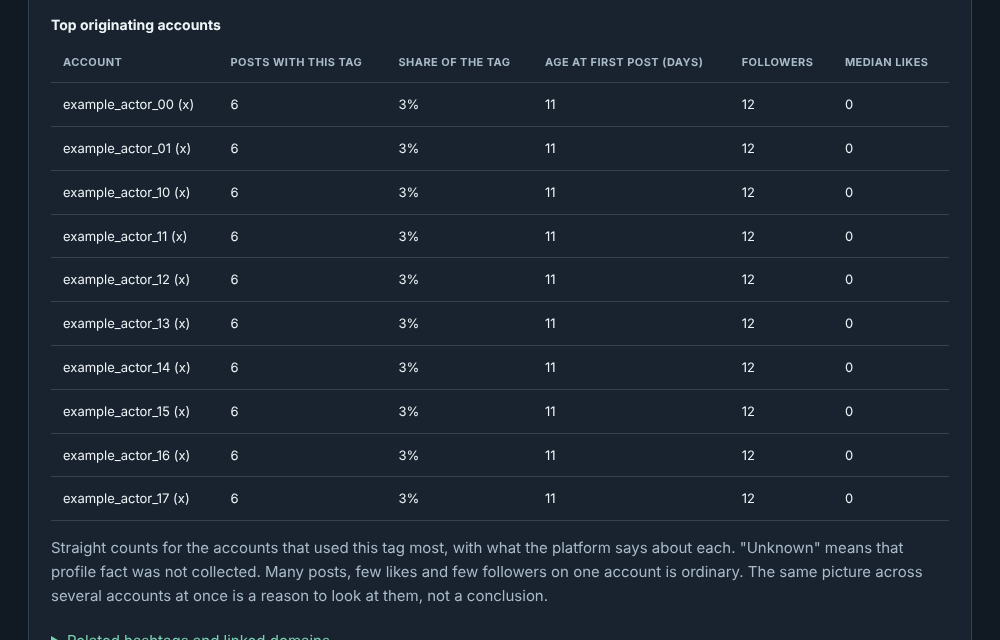
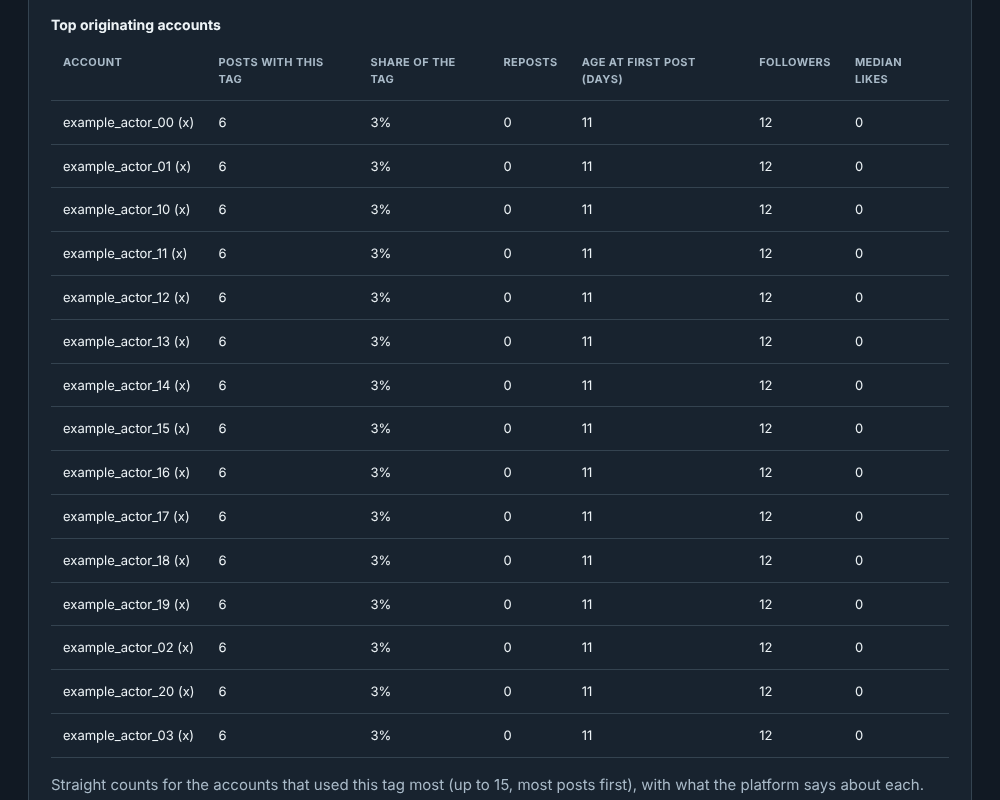
Release TopicStream 0.3.10: the per-tag account table at its old length
0.3.9 restored Top originating accounts shorter than it was. Compared
with a 0.2.5 report rendered on the same data:

- Top originating accounts lists up to 15 accounts (0.3.9 stopped at
  10) and has its Reposts column again. Same order: most posts with
  the tag first.
- Each tag card's heading carries the tag's totals again
  ("#tag · 158 posts from 17 accounts").
- Related hashtags shows Share and Lift again, with a line on what
  each is.

No change to collection, detection, pricing or any existing number.

Claude-Session: https://claude.ai/code/session_01MUSQSKf5PqKzUGwwCN55CZ

diff --git a/topicstream/report.py b/topicstream/report.py
@@ -11,7 +11,7 @@ from .sources import parse_time, iso
 from . import __version__ as VERSION
 
 CSS = '''
-:root{color-scheme:dark;--bg:#111923;--panel:#18232f;--line:#344350;--muted:#a9bac8;--ink:#edf3f6;--accent:#79d3b1}*{box-sizing:border-box}body{margin:0;background:var(--bg);color:var(--ink);font:15px/1.6 system-ui,sans-serif}main{max-width:1250px;margin:auto;padding:42px 28px}h1{font-size:34px;line-height:1.2;margin:14px 0}h2{font-size:23px;margin:36px 0 12px}h3{font-size:17px}h4{font-size:14px;margin:18px 0 6px}.tok{white-space:nowrap}a{color:var(--accent)}p{max-width:100ch}.muted{color:var(--muted)}.eyebrow{letter-spacing:.14em;text-transform:uppercase;font-size:12px;color:var(--accent)}.card{background:var(--panel);border:1px solid var(--line);padding:22px;border-radius:12px;margin:15px 0}.metrics{display:grid;grid-template-columns:repeat(4,1fr);gap:14px}.metrics strong{display:block;font-size:28px}.scroll{overflow:auto}table{border-collapse:collapse;width:100%;font-size:13px}th,td{padding:11px 12px;text-align:left;border-bottom:1px solid var(--line);vertical-align:top}th{color:var(--muted);font-size:11px;text-transform:uppercase;letter-spacing:.04em}td{overflow-wrap:anywhere}code{overflow-wrap:anywhere;color:var(--accent)}.notice{border-left:3px solid var(--accent);padding:12px 18px;background:#19312e}.bars{display:flex;align-items:end;gap:4px;height:150px}.bar{background:var(--accent);min-width:4px;max-width:72px;flex:1}.post{padding:15px 0;border-bottom:1px solid var(--line);scroll-margin-top:20px}summary{cursor:pointer;color:var(--accent)}.small{font-size:12px}nav{display:flex;gap:16px;flex-wrap:wrap}@media(max-width:650px){main{padding:20px 14px}.metrics{grid-template-columns:repeat(2,1fr)}h1{font-size:27px}}
+:root{color-scheme:dark;--bg:#111923;--panel:#18232f;--line:#344350;--muted:#a9bac8;--ink:#edf3f6;--accent:#79d3b1}*{box-sizing:border-box}body{margin:0;background:var(--bg);color:var(--ink);font:15px/1.6 system-ui,sans-serif}main{max-width:1250px;margin:auto;padding:42px 28px}h1{font-size:34px;line-height:1.2;margin:14px 0}h2{font-size:23px;margin:36px 0 12px}h3{font-size:17px}h4{font-size:14px;margin:18px 0 6px}.tok{white-space:nowrap}h3 .muted{font-weight:400;font-size:14px}a{color:var(--accent)}p{max-width:100ch}.muted{color:var(--muted)}.eyebrow{letter-spacing:.14em;text-transform:uppercase;font-size:12px;color:var(--accent)}.card{background:var(--panel);border:1px solid var(--line);padding:22px;border-radius:12px;margin:15px 0}.metrics{display:grid;grid-template-columns:repeat(4,1fr);gap:14px}.metrics strong{display:block;font-size:28px}.scroll{overflow:auto}table{border-collapse:collapse;width:100%;font-size:13px}th,td{padding:11px 12px;text-align:left;border-bottom:1px solid var(--line);vertical-align:top}th{color:var(--muted);font-size:11px;text-transform:uppercase;letter-spacing:.04em}td{overflow-wrap:anywhere}code{overflow-wrap:anywhere;color:var(--accent)}.notice{border-left:3px solid var(--accent);padding:12px 18px;background:#19312e}.bars{display:flex;align-items:end;gap:4px;height:150px}.bar{background:var(--accent);min-width:4px;max-width:72px;flex:1}.post{padding:15px 0;border-bottom:1px solid var(--line);scroll-margin-top:20px}summary{cursor:pointer;color:var(--accent)}.small{font-size:12px}nav{display:flex;gap:16px;flex-wrap:wrap}@media(max-width:650px){main{padding:20px 14px}.metrics{grid-template-columns:repeat(2,1fr)}h1{font-size:27px}}
 '''
 CSS += '''
 :root[data-theme="light"]{color-scheme:light;--bg:#f7f9fb;--panel:#fff;--line:#c6d0d8;--muted:#465865;--ink:#14222e;--accent:#14634e}
@@ -188,14 +188,15 @@ def render(store,cfg,now=None,result=None):
         last_day=(end-timedelta(seconds=1)).date()
         calendar_days=(last_day-start.date()).days+1
         series=A.daily_series(posts,tag,calendar_days,end=last_day); maximum=max([u for _,u,_ in series]+[1])
-        w(f'<section class="card"><h3>{esc(tag)}</h3><div class="bars" role="img" aria-label="Observed posts per UTC day">'+''.join(f'<div class="bar" style="height:{max(1,int(145*u/maximum))}px" title="{esc(d)}: {u} posts from {a} accounts"></div>' for d,u,a in series)+'</div>')
+        tagged=A._for_tag(posts,tag); tag_accounts=len({A.account_key(p) for p in tagged})
+        w(f'<section class="card"><h3>{esc(tag)} <span class="muted">· {len(tagged):,} post{"" if len(tagged)==1 else "s"} from {tag_accounts:,} account{"" if tag_accounts==1 else "s"}</span></h3><div class="bars" role="img" aria-label="Observed posts per UTC day">'+''.join(f'<div class="bar" style="height:{max(1,int(145*u/maximum))}px" title="{esc(d)}: {u} posts from {a} accounts"></div>' for d,u,a in series)+'</div>')
         w(_table(['UTC day','Observed posts','Originating accounts'],[(esc(d),u,a) for d,u,a in series]))
-        top_accounts=A.top_accounts(posts,tag,top=10,now=now)
+        top_accounts=A.top_accounts(posts,tag,top=15,now=now)
         if top_accounts:
             w('<h4>Top originating accounts</h4>')
-            w(_table(['Account','Posts with this tag','Share of the tag','Age at first post (days)','Followers','Median likes'],[(esc(r['account']+' ('+r['source']+')'),r['uses'],f'{r["share"]:.0%}',num(r['age_days']),num(r['followers']),med(r['median_likes'])) for r in top_accounts]))
-            w('<p class="muted">Straight counts for the accounts that used this tag most, with what the platform says about each. "Unknown" means that profile fact was not collected. Many posts, few likes and few followers on one account is ordinary. The same picture across several accounts at once is a reason to look at them, not a conclusion.</p>')
-        w('<details><summary>Related hashtags and linked domains</summary>'+_table(['Hashtag','Posts','Accounts'],[(esc(c['tag']),c['count'],c['accounts']) for c in A.cooccurrence(posts,tag)])+_table(['Domain','Posts','Accounts'],[(esc(c['domain']),c['posts'],c['accounts']) for c in A.top_domains(posts,tag)])+'</details>')
+            w(_table(['Account','Posts with this tag','Share of the tag','Reposts','Age at first post (days)','Followers','Median likes'],[('<span class="tok">'+esc(r['account']+' ('+r['source']+')')+'</span>',r['uses'],f'{r["share"]:.0%}',r['reposts'],num(r['age_days']),num(r['followers']),med(r['median_likes'])) for r in top_accounts]))
+            w('<p class="muted">Straight counts for the accounts that used this tag most (up to 15, most posts first), with what the platform says about each. "Reposts" is how many of an account\'s posts with the tag are reposts. "Unknown" means that profile fact was not collected. Many posts, few likes and few followers on one account is ordinary. The same picture across several accounts at once is a reason to look at them, not a conclusion.</p>')
+        w('<details><summary>Related hashtags and linked domains</summary>'+_table(['Hashtag','Posts','Share','Lift','Accounts'],[(esc(c['tag']),c['count'],f'{c["share"]:.0%}',f'{c["lift"]:.1f}',c['accounts']) for c in A.cooccurrence(posts,tag)])+'<p class="muted">Share is the fraction of this tag\'s posts that also carry the other tag. Lift is that share divided by how common the other tag is in everything stored; 1.0 means no relationship.</p>'+_table(['Domain','Posts','Accounts'],[(esc(c['domain']),c['posts'],c['accounts']) for c in A.top_domains(posts,tag)])+'</details>')
         if counts: w('<details><summary>X volume per hour from the counts API</summary>'+_table(['Hour UTC','API-reported matches'],[(esc(c['start_utc']),c['uses']) for c in counts if c['tag']==tag])+'</details>')
         w('</section>')
     bc=cfg.get('burst',{}); window=int(bc.get('window_minutes',10)); minimum=int(bc.get('minimum',3))

diff --git a/tests/test_topicstream.py b/tests/test_topicstream.py
@@ -117,7 +117,11 @@ class AnalysisTests(unittest.TestCase):
         token_row = re.search(r'<tr><td><span class="tok">utm_campaign=zz9</span></td><td>(\d+)</td>', html)
         self.assertTrue(token_row, 'the campaign token has a row of its own'); self.assertEqual(int(token_row.group(1)), 6)        # six accounts link site.example in the fixture
         self.assertNotIn('utm_source=twitter</span>', html)                                                                     # share-button boilerplate is not a token
-        self.assertIn('Top originating accounts', html); self.assertIn('<th>Followers</th><th>Median likes</th>', html)
+        self.assertIn('Top originating accounts', html); self.assertIn('<th>Posts with this tag</th><th>Share of the tag</th><th>Reposts</th><th>Age at first post (days)</th><th>Followers</th><th>Median likes</th>', html)
+        self.assertIn('<th>Hashtag</th><th>Posts</th><th>Share</th><th>Lift</th><th>Accounts</th>', html)                          # related hashtags keep their share and lift
+        self.assertRegex(html, r'<h3>#?osint <span class="muted">· \d+ posts from \d+ accounts</span></h3>')                    # the card heading carries the tag's totals
+        card = html[html.index('Top originating accounts'):]; rows = card[:card.index('</table>')].count('<tr>') - 1
+        self.assertEqual(rows, min(15, len({p['author'] for p in self.posts if any('osint' in m for m in p['matched'])})))                       # up to fifteen accounts, as before 0.3.0
         self.assertIn('<th>Age at event</th><th>Followers</th><th>Lifetime posts</th><th>Median likes</th>', html)
         self.assertIn('<td>41</td>', html)                                                                                    # the lifetime post count reaches the account table
         with stored_directory() as d:                                                                                         # nothing to show is said plainly

diff --git a/topicstream/__init__.py b/topicstream/__init__.py
@@ -6,4 +6,4 @@ uses-per-account ratio, co-occurring tags, shared links, and same-text bursts.
 
 Standard library only. Mastodon needs no credentials. Bluesky needs a free app password. X is pay-per-use.
 """
-__version__ = '0.3.9'
+__version__ = '0.3.10'

diff --git a/CHANGELOG.md b/CHANGELOG.md
@@ -1,11 +1,20 @@
 # Changes
 
+## 0.3.10 (November 25, 2026)
+
+0.3.9 put the per-tag account table back shorter than it used to be. Checked against a 0.2.5 report on the same data, and brought into line with it:
+
+- **Top originating accounts** lists up to 15 accounts (0.3.9 stopped at 10) and has its **Reposts** column again: how many of an account's posts with the tag are reposts. The order is unchanged, most posts with the tag first.
+- Each tag card's heading carries the tag's totals again: `#tag · 158 posts from 17 accounts`.
+- **Related hashtags** shows **Share** and **Lift** again, with a line saying what each is. The analysis never stopped computing them.
+- No change to collection, detection, pricing or any existing number in a report.
+
 ## 0.3.9 (November 25, 2026)
 
 Three panels are back in the report. They were in every version up to 0.2.5 and did not come across when the report was rebuilt around recurring groups in 0.3.0. The analysis never stopped computing them.
 
 - **Tracking tokens carried by several accounts**, under Shared links and related tags: each campaign or referral token found on the links in the posts (`utm_campaign=…`, a referral code, a short code), how many distinct accounts carry it, and which. Share-button boilerplate is left out and tokens that always travel together are one row, as before. The note under the table says what a shared token does and does not show: it ties posts to one source of links, and anyone who copies or forwards a post carries the token along.
-- **Top originating accounts**, in each tag's card: the ten accounts that used the tag most, with posts, share of the tag, age at first post, followers and median likes.
+- **Top originating accounts**, in each tag's card: the ten accounts that used the tag most, with posts, share of the tag, age at first post, followers and median likes. (Fifteen, with reposts, from 0.3.10.)
 - **Followers and Lifetime posts** columns in Account observations, beside each account's signals, so the facts behind `no_audience` and `low_lifetime_activity` are on the page.
 - Medians print as 1 or 0.5, not 1.0.
 - Where a section has nothing to list (no shared domain, no candidate tag), the report says so in a sentence in place of an empty table.

diff --git a/docs/report-examples.md b/docs/report-examples.md
@@ -1,6 +1,6 @@
 # Current report examples
 
-The first three screenshots show TopicStream **0.3.2**, captured November 5, 2026; the last two show the panels restored in **0.3.9**, captured November 25, 2026. All accounts, posts, counts, and collection-window records are invented demonstration data. They are not the Singapore pilot or a classroom export, and no API requests were made to generate them.
+The first three screenshots show TopicStream **0.3.2**, captured November 5, 2026; the last two show the panels restored in **0.3.9** and **0.3.10**, captured November 25, 2026. All accounts, posts, counts, and collection-window records are invented demonstration data. They are not the Singapore pilot or a classroom export, and no API requests were made to generate them.
 
 Reproduce the example from the checkout:
 
@@ -31,7 +31,7 @@ The invented capped-window example remains partial. It demonstrates how an unfin
 
 ## Top originating accounts
 
-Each tag or term card lists the ten accounts that used it most, with what the platform says about each: age at first post, followers and median likes. The Account observations table carries the same facts (Followers, Lifetime posts, Median likes) beside each account's signals. "Unknown" is shown where a profile was not collected.
+Each tag or term card lists up to fifteen accounts that used it most, most posts first, with how many of those posts are reposts and what the platform says about each account: age at first post, followers and median likes. The Account observations table carries the same facts (Followers, Lifetime posts, Median likes) beside each account's signals. "Unknown" is shown where a profile was not collected.
 
 ![Synthetic report: top originating accounts for a term](report-accounts.png)
 
